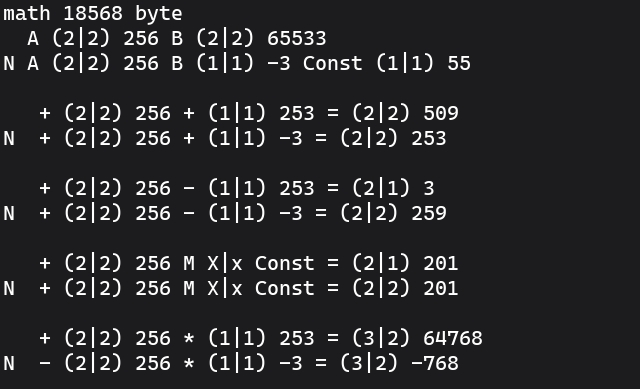
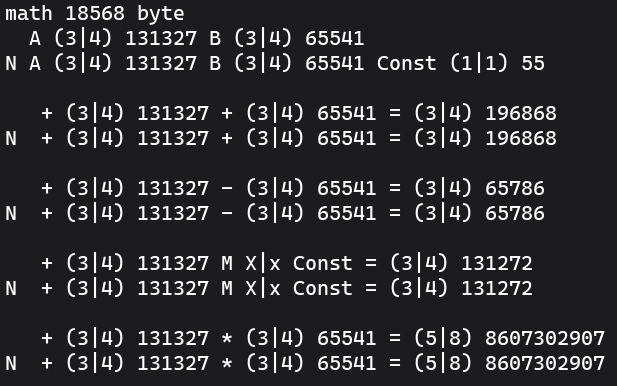
v12.82

diff --git a/math.c b/math.c
@@ -29,8 +29,8 @@ anu FMOV(anu l, an r, an a) { Mat.F = 0; Mat.C = 0; Mat.z = l;
     if ((Mat.F = l ? 0: Mat.y ? 2:1)) { *r = Mat.y; return 0; } l = Mat.z; }
   while(((Mat.y = *Mat.r--) == Mat.N) && (Mat.Nim ? !((*Mat.r ^ Mat.N) & 128):1) && l) { l--; }
   if (Mat.y != 128) Mat.y = 0; else { Mat.z = l; while(!*Mat.r-- && l) { l--; }
-    Mat.y = (Mat.C = (Mat.z == 255)) ? 0:l ? 0:1; } Mat.z = l;
-  if (r < a) do *r++ = *a++; while(l--); else { Mat.r = (r += l + 1); Mat.a = (a += l + 1); 
+    Mat.y = (Mat.C = (Mat.z == 255)) ? 0:l ? 0:1; if ((Mat.F = (Mat.C && !l) << 1)) { *r = 128; return 0; } }
+  Mat.z = l; if (r < a) do *r++ = *a++; while(l--); else { Mat.r = (r += l + 1); Mat.a = (a += l + 1);
     do *--Mat.r = *--Mat.a; while(l--); } if (Mat.y) { *r = Mat.N; Mat.z++; } return Mat.z; }
 anu FCOLD(anu f, anu l, an r, an a) { l = FMOV(l, r, a); Mat.z = ((Mat.x = l)) ? 2:1;
   while((Mat.x >>= 1)) { Mat.z <<= 1; } Mat.r = r; r += l; Mat.x = --Mat.z - l; Mat.y = Mat.N;
@@ -93,7 +93,7 @@ void FMUL(an r, an a, anu l, an b) { Mat.r = r; Mat.C = (Mat.C != 0);
   Mat.F = Mat.l - Mat.F; Mat.N = l - Mat.N; Mat.x = Mat.F + Mat.N;
   while(*Mat.a-- == Mat.na && (Mat.Nim ? !((*Mat.a ^ Mat.na) & 128):1) && Mat.l) { Mat.l--; }
   while(*Mat.b-- == Mat.nb && (Mat.Nim ? !((*Mat.b ^ Mat.nb) & 128):1) && l) { l--; }
-  Mat.F = Mat.l - Mat.F; Mat.N = l - Mat.N; Mat.l += l; Mat.l++; if (l > Mat.l) {
+  Mat.F = Mat.l - Mat.F; Mat.N = l - Mat.N; Mat.y = Mat.l; Mat.l += l; Mat.l++; if (Mat.y > Mat.l) {
     Mat.F = 2; Mat.N = 255; *r = 128; Mat.l = 0; Mat.C = 1; return; }
   Mat.a = &Mat.Hi.l; Mat.b = &Mat.Lo.l; if (Mat.F > Mat.N) { l = Mat.F; if (Mat.na) { Mat.y = 1;
       do Mat.y = !(*Mat.a++ = ~*a++ + Mat.y); while(l--); } else { do *Mat.a++ = *a++; while(l--); }
@@ -101,8 +101,8 @@ void FMUL(an r, an a, anu l, an b) { Mat.r = r; Mat.C = (Mat.C != 0);
     else { do *Mat.b++ = *b++; while(l--); } } else { l = Mat.F; Mat.F = Mat.N; Mat.N = l; if (Mat.nb) {
     Mat.y = 1; do Mat.y = !(*Mat.a++ = ~*b++ + Mat.y); while(l--); } else { do *Mat.a++ = *b++; while(l--); }
     l = Mat.F; if (Mat.na) { Mat.y = 1; do Mat.y = !(*Mat.b++ = ~*a++ + Mat.y); while(l--); }
-    else { do *Mat.b++ = *a++; while(l--); } } *Mat.b = 0; Mat.N++; l = Mat.l;
-  *r++ = Mat.C; do *r++ = 0; while(l--); r = Mat.r + Mat.x; Mat.a = &Mat.Hi.l;
+    else { do *Mat.b++ = *a++; while(l--); } } *Mat.b = 0; Mat.N++;
+  l = Mat.l; *r++ = Mat.C; do *r++ = 0; while(l--); r = Mat.r + Mat.x; Mat.a = &Mat.Hi.l;
   do { if ((Mat.da = *Mat.a++)) { a = &Mat.Sr.l; b = &Mat.Lo.l; l = Mat.N; do *a++ = *b++; while(--l);
          do { Mat.x = 0; b = &Mat.Sr.l; l = Mat.N; if (!(Mat.da & 1)) do { Mat.db = *b;
              *b++ = (Mat.db << 1) | Mat.x; Mat.x = (Mat.db & 128) ? 1:0; } while(--l);
@@ -110,8 +110,9 @@ void FMUL(an r, an a, anu l, an b) { Mat.r = r; Mat.C = (Mat.C != 0);
                Mat.C = (Mat.y > Mat.z) || (Mat.C && Mat.y == Mat.z); *b++ = (Mat.db << 1) | Mat.x;
                Mat.x = (Mat.db & 128) ? 1:0; } while(--l); } } while(Mat.da >>= 1); }
        r++; } while(Mat.F--);
-  Mat.F++; if ((Mat.N = (Mat.Nim && (Mat.na ^ Mat.nb)) ? 255:0)) { l = Mat.l; Mat.y = 1;
-    do { Mat.y = !(*Mat.r = ~*Mat.r + Mat.y); Mat.r++; } while(l--); } }
+  Mat.F++; if ((Mat.N = (Mat.Nim && (Mat.na ^ Mat.nb)) ? 255:0)) { l = Mat.l; r = Mat.r;
+    Mat.z = 1; do { Mat.z = !(*r = ~*r + Mat.z); r++; } while(l--); }
+  if (*(Mat.r + Mat.l) == Mat.N) Mat.l--; }
 
 void FDIV(an r, an e, an a, anu l, an b) { Mat.r = r; Mat.C = (Mat.C != 0);
   Mat.fa = *(Mat.a = a + Mat.l); Mat.na = (Mat.Nim && (Mat.fa & 0x80)) ? 0xFF:0; Mat.N = l;

diff --git a/main.c b/main.c
@@ -28,6 +28,6 @@ void Show(char s) { anu i = 2; printf("\n"); while(i--) { Mat.Nim = 1 - i;
       printf("  %c ", Mat.Fe ? (Mat.Ne ? 'I':'Z') : (Mat.Ne ? '-':'+')); Num(Mat.le, Mat.E); } printf("\n"); } }
 
 int main(void) { anu a[m],b[m],e[m],r[m+m]; Faddr((As)r, (As)e, (As)a, (As)b);
-  Fini(); la = Fbvi(Mat.A,127); lb = Fvi(Mat.B, 2); printf("  A "); Num(la, Mat.A); printf("B ");
+  Fini(); la = Fbvi(Mat.A,0,0,2,0,255); lb = Fvi(Mat.B, 5,0,1,0); printf("  A "); Num(la, Mat.A); printf("B ");
   Num(lb, Mat.B); Fini(1); la = Fmov(la, Mat.A); lb = Fmov(lb, Mat.B); printf("\nN A "); Num(la, Mat.A); printf("B ");
   Num(lb, Mat.B); printf("Const (1|1) 55\n"); Show('+'); Show('-'); Show('M'); Show('*');/* Show('/');*/return 0; }

diff --git a/README.md b/README.md
@@ -5,7 +5,7 @@
 P.s.: Блокировку убрали как только добавил сообщение о ней на главную страницу, длилась минут 20 как я заметил и принял меры чтоб сообщить об этом Вам. Это сообщение останется (20.09.2026 ~16.00 по местному +7) как память, так, что буду стараться вопреки не востребованности в России по данной области дабы остальной народ мог этим воспользоваться. Проанализируйте события с момента как я вернулся в эту сферу (конец января 2026 выложен Products готовый полностью затем занялся Fresh в начале февраля 2026), всё это время обновлялся код и было забавно видеть на open.net новости - даже компании серьёзные их как озарило - так, что у меня нет желания и времени следить за соблюдением GPLv3 из России, а вот Вы, если заметите нарушение прав, то гарантирую 50% ваши в любом случае. 
 
 <div align="center">
-  <h1>Результат запуска v12.8</h1>
+  <h1>Результат запуска v12.82</h1>
   
   <picture>
     <source media="(prefers-color-scheme: dark)" srcset="Plus/psb.jpeg">
